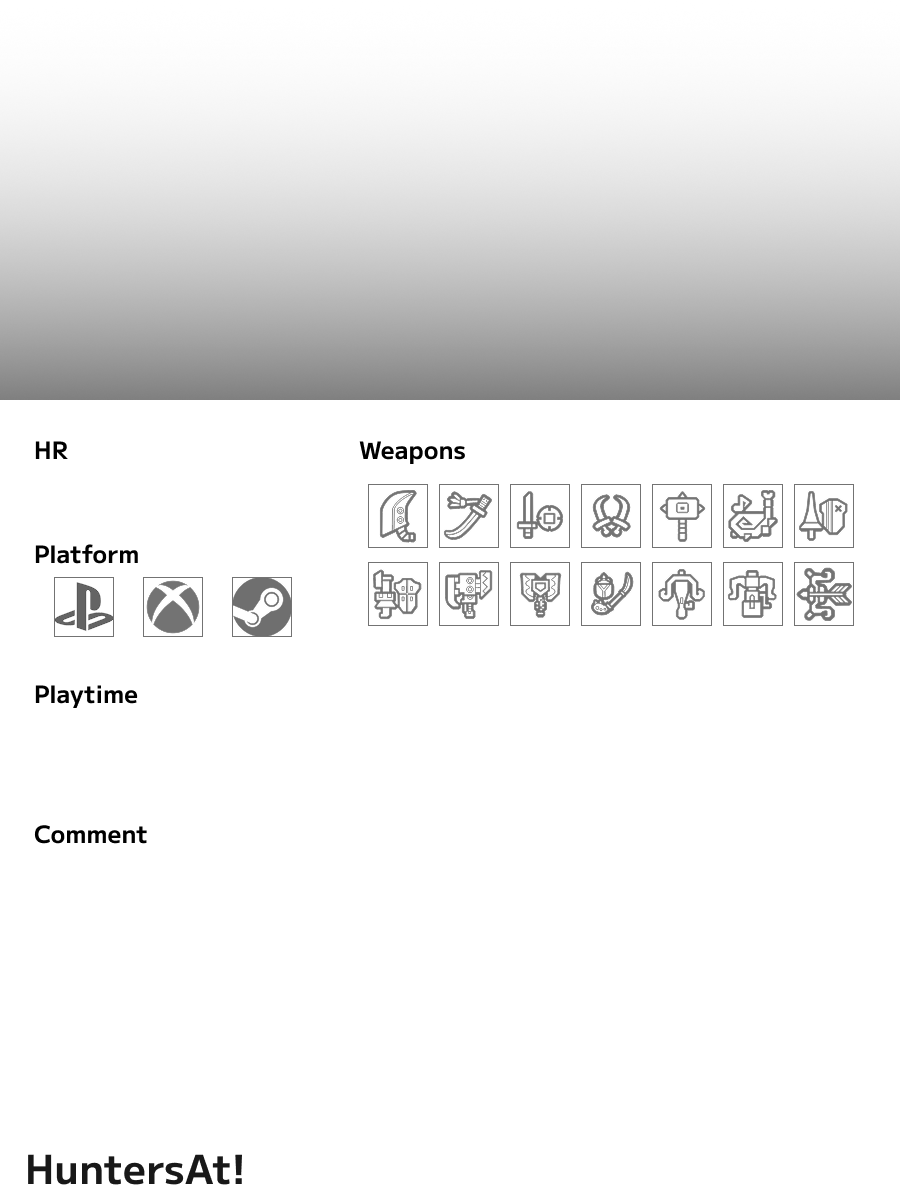
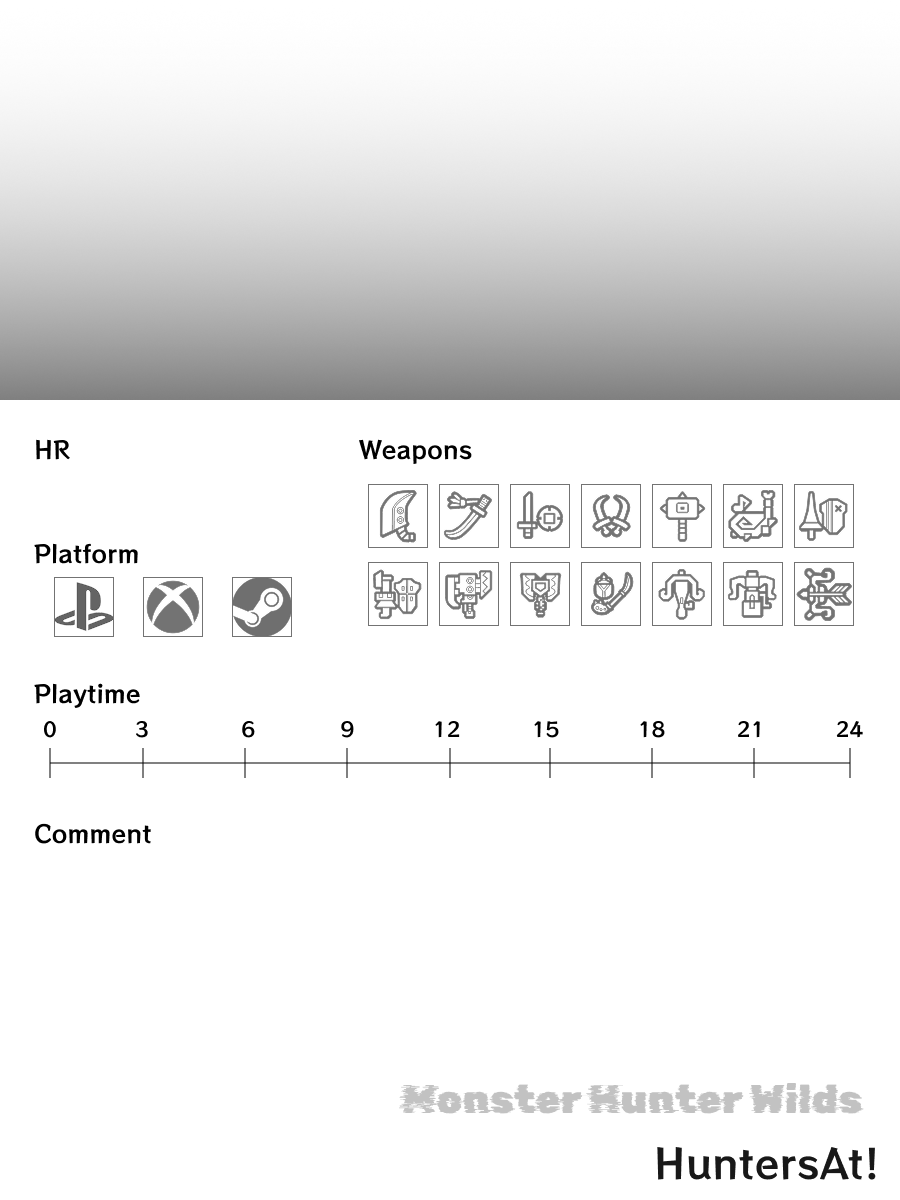
プレイ時間などを反映可能に。tmp commit

diff --git a/src/lib/components/profile/Canvas.svelte b/src/lib/components/profile/Canvas.svelte
@@ -1,20 +1,21 @@
 <script lang="ts">
   import { page } from '$app/stores';
+  import { weapons } from '$lib/consts';
   import { onMount } from "svelte";
-  import { Stage, Layer, Rect, Text, Image } from 'svelte-konva';
+  import { Stage, Layer, Rect, Text, Image, Star, Line } from 'svelte-konva';
 
   export let hunterName = "";
   export let hunterRank = "-";
   export let selectedPlatforms: string[] = [];
   export let selectedWeapons: Record<string, number> = {};
-  export let playTimeRange = [8, 22];
+  export let playTimeRange = [18, 23];
   export let comment = "";
   export let headerImage: string;
 
   let background: HTMLImageElement;
   let header: HTMLImageElement;
 
-  const weapons = ["gs", "ls", "sns", "db", "hammer", "hh", "lance", "gl", "sa", "cb", "ig", "lbg", "hbg", "bow"];
+  const configLine = [48 + (32 * playTimeRange[0]), 764, 50 + (33.5 * playTimeRange[1]), 764];
 
   onMount(() => {
     const bg = document.createElement('img');
@@ -33,6 +34,17 @@
       }
     }
   }
+
+  const configRect = (x_base: number, x_offset: number, y_base:number, y_offset: number) => {
+    return {
+      x: x_base + x_offset,
+      y: y_base + y_offset,
+      width: 60,
+      height: 60,
+      stroke: "red",
+      strokeWidth: 8,
+    }
+  }
 </script>
 
 <Stage
@@ -45,8 +57,7 @@
       width={900}
       height={1200}
       fill="pink",
-    >
-    </Rect>
+    />
   </Layer>
 
   <!-- ヘッダー -->
@@ -83,10 +94,62 @@
       fill='black'
       align='center'
     />
+    <Text
+      x={40}
+      y={860}
+      lineHeight={1.5}
+      width={820}
+      text={comment}
+      fontSize={16}
+      fill='black'
+    />
   </Layer>
 
-  <!-- アイコン系 -->
   <Layer>
-    
+    <!-- プラットフォームアイコン -->
+    {#if selectedPlatforms.includes("ps")}
+      <Rect
+        {...configRect(55, 0, 578, 0)}
+      />
+    {/if}
+    {#if selectedPlatforms.includes("xbox")}
+      <Rect
+        {...configRect(55, 88, 578, 0)}
+      />
+    {/if}
+    {#if selectedPlatforms.includes("steam")}
+      <Rect
+        {...configRect(55, 88 * 2, 578, 0)}
+      />
+    {/if}
+
+    <!-- 武器アイコン -->
+    {#each weapons as weapon, i}
+      {#if selectedWeapons[weapon]}
+        <Rect
+          {...configRect(368, 71 * (i % 7), 486, (i < 7 ? 0 : 78))}
+        />
+        {#if selectedWeapons[weapon] > 1}
+          <Star
+            x={380 + 71 * (i % 7)}
+            y={495 + (i < 7 ? 0 : 78)}
+            innerRadius={6}
+            outerRadius={12}
+            numPoints={5}
+            fill="gold"
+            stroke="black"
+            strokeWidth={1}
+          />
+        {/if}
+      {/if}
+    {/each}
+
+    <!-- プレイ時間 -->
+    <Line
+      points={configLine}
+      stroke="blue"
+      strokeWidth={10}
+      opacity={0.5}
+    />
   </Layer>
 </Stage>

diff --git a/src/lib/components/profile/InputForm.svelte b/src/lib/components/profile/InputForm.svelte
@@ -1,4 +1,5 @@
 <script lang="ts">
+  import { platforms, weapons } from "$lib/consts";
   import { createEventDispatcher } from "svelte";
 
   export let hunterName = "";
@@ -8,9 +9,6 @@
   export let playTimeRange = [8, 22];
   export let comment = "";
   export let headerImage: string | null = null;
-
-  const weapons = ["gs", "ls", "sns", "db", "hammer", "hh", "lance", "gl", "sa", "cb", "ig", "lbg", "hbg", "bow"];
-  const platforms = ["PS5", "Xbox", "Steam"];
 
   const dispatch = createEventDispatcher();
 

diff --git a/src/lib/consts.ts b/src/lib/consts.ts
@@ -1,0 +1,2 @@
+export const weapons = ["gs", "ls", "sns", "db", "hammer", "hh", "lance", "gl", "sa", "cb", "ig", "lbg", "hbg", "bow"];
+export const platforms = ["ps", "xbox", "steam"];
